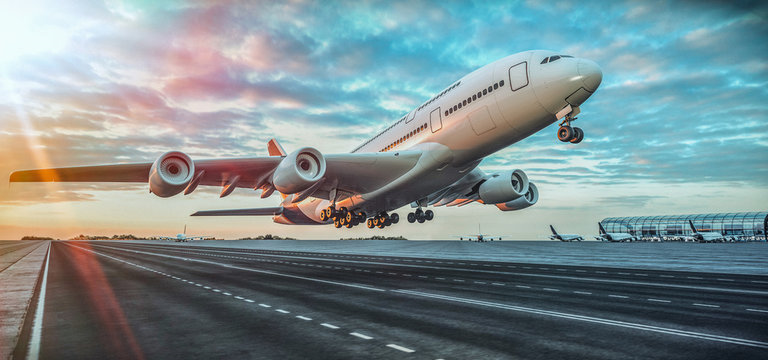
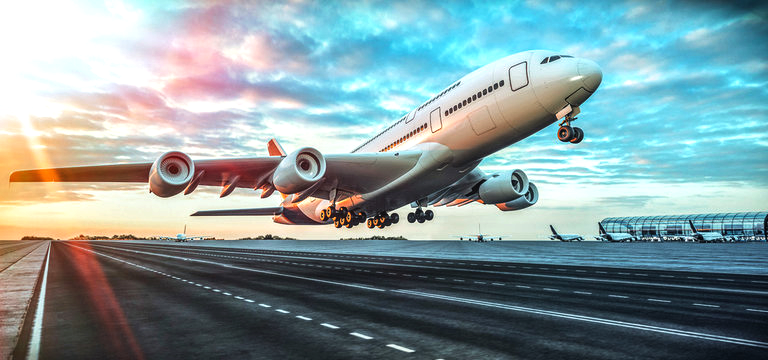
commit to main

diff --git a/js/script.js b/js/script.js
@@ -37,7 +37,7 @@ const slides = [
       buttonText: "Contact Us"
   },
   {
-      backgroundImage: "url('images/air-3.png')",
+      backgroundImage: "url('images/air-3.jpeg')",
       title: "Smooth landings, effortless bookings. Welcome to IHAS.",
       subtitle: "We Care About Your Safety",
       buttonLink: "#",
